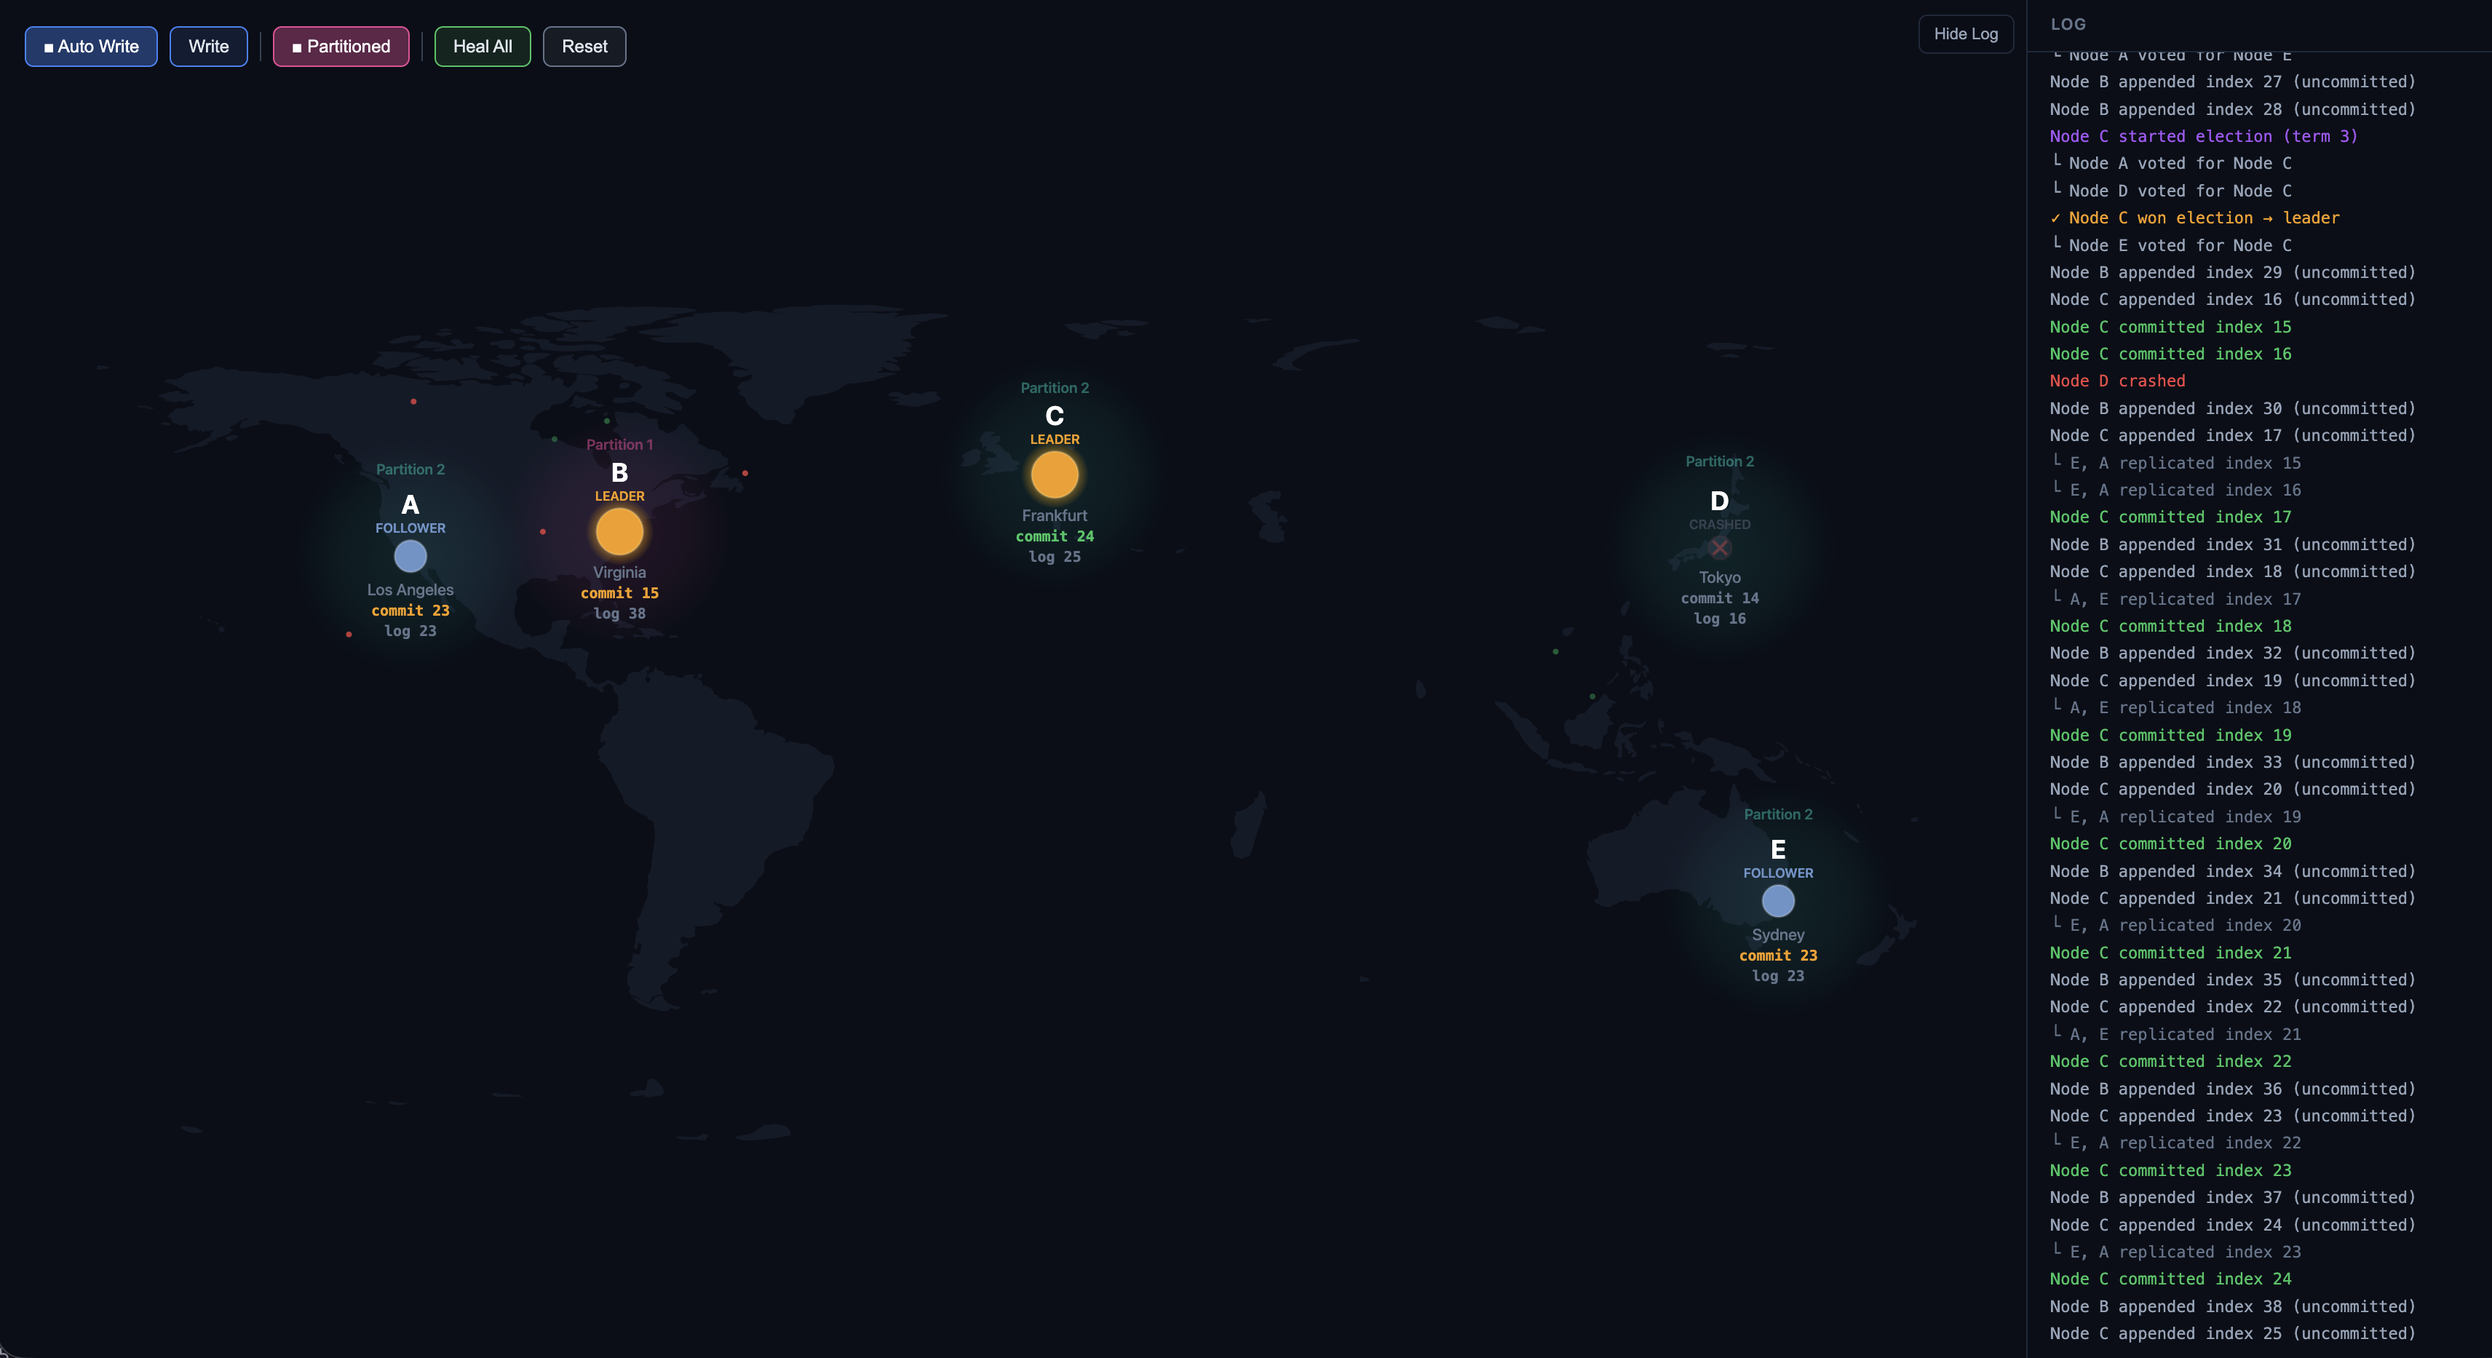
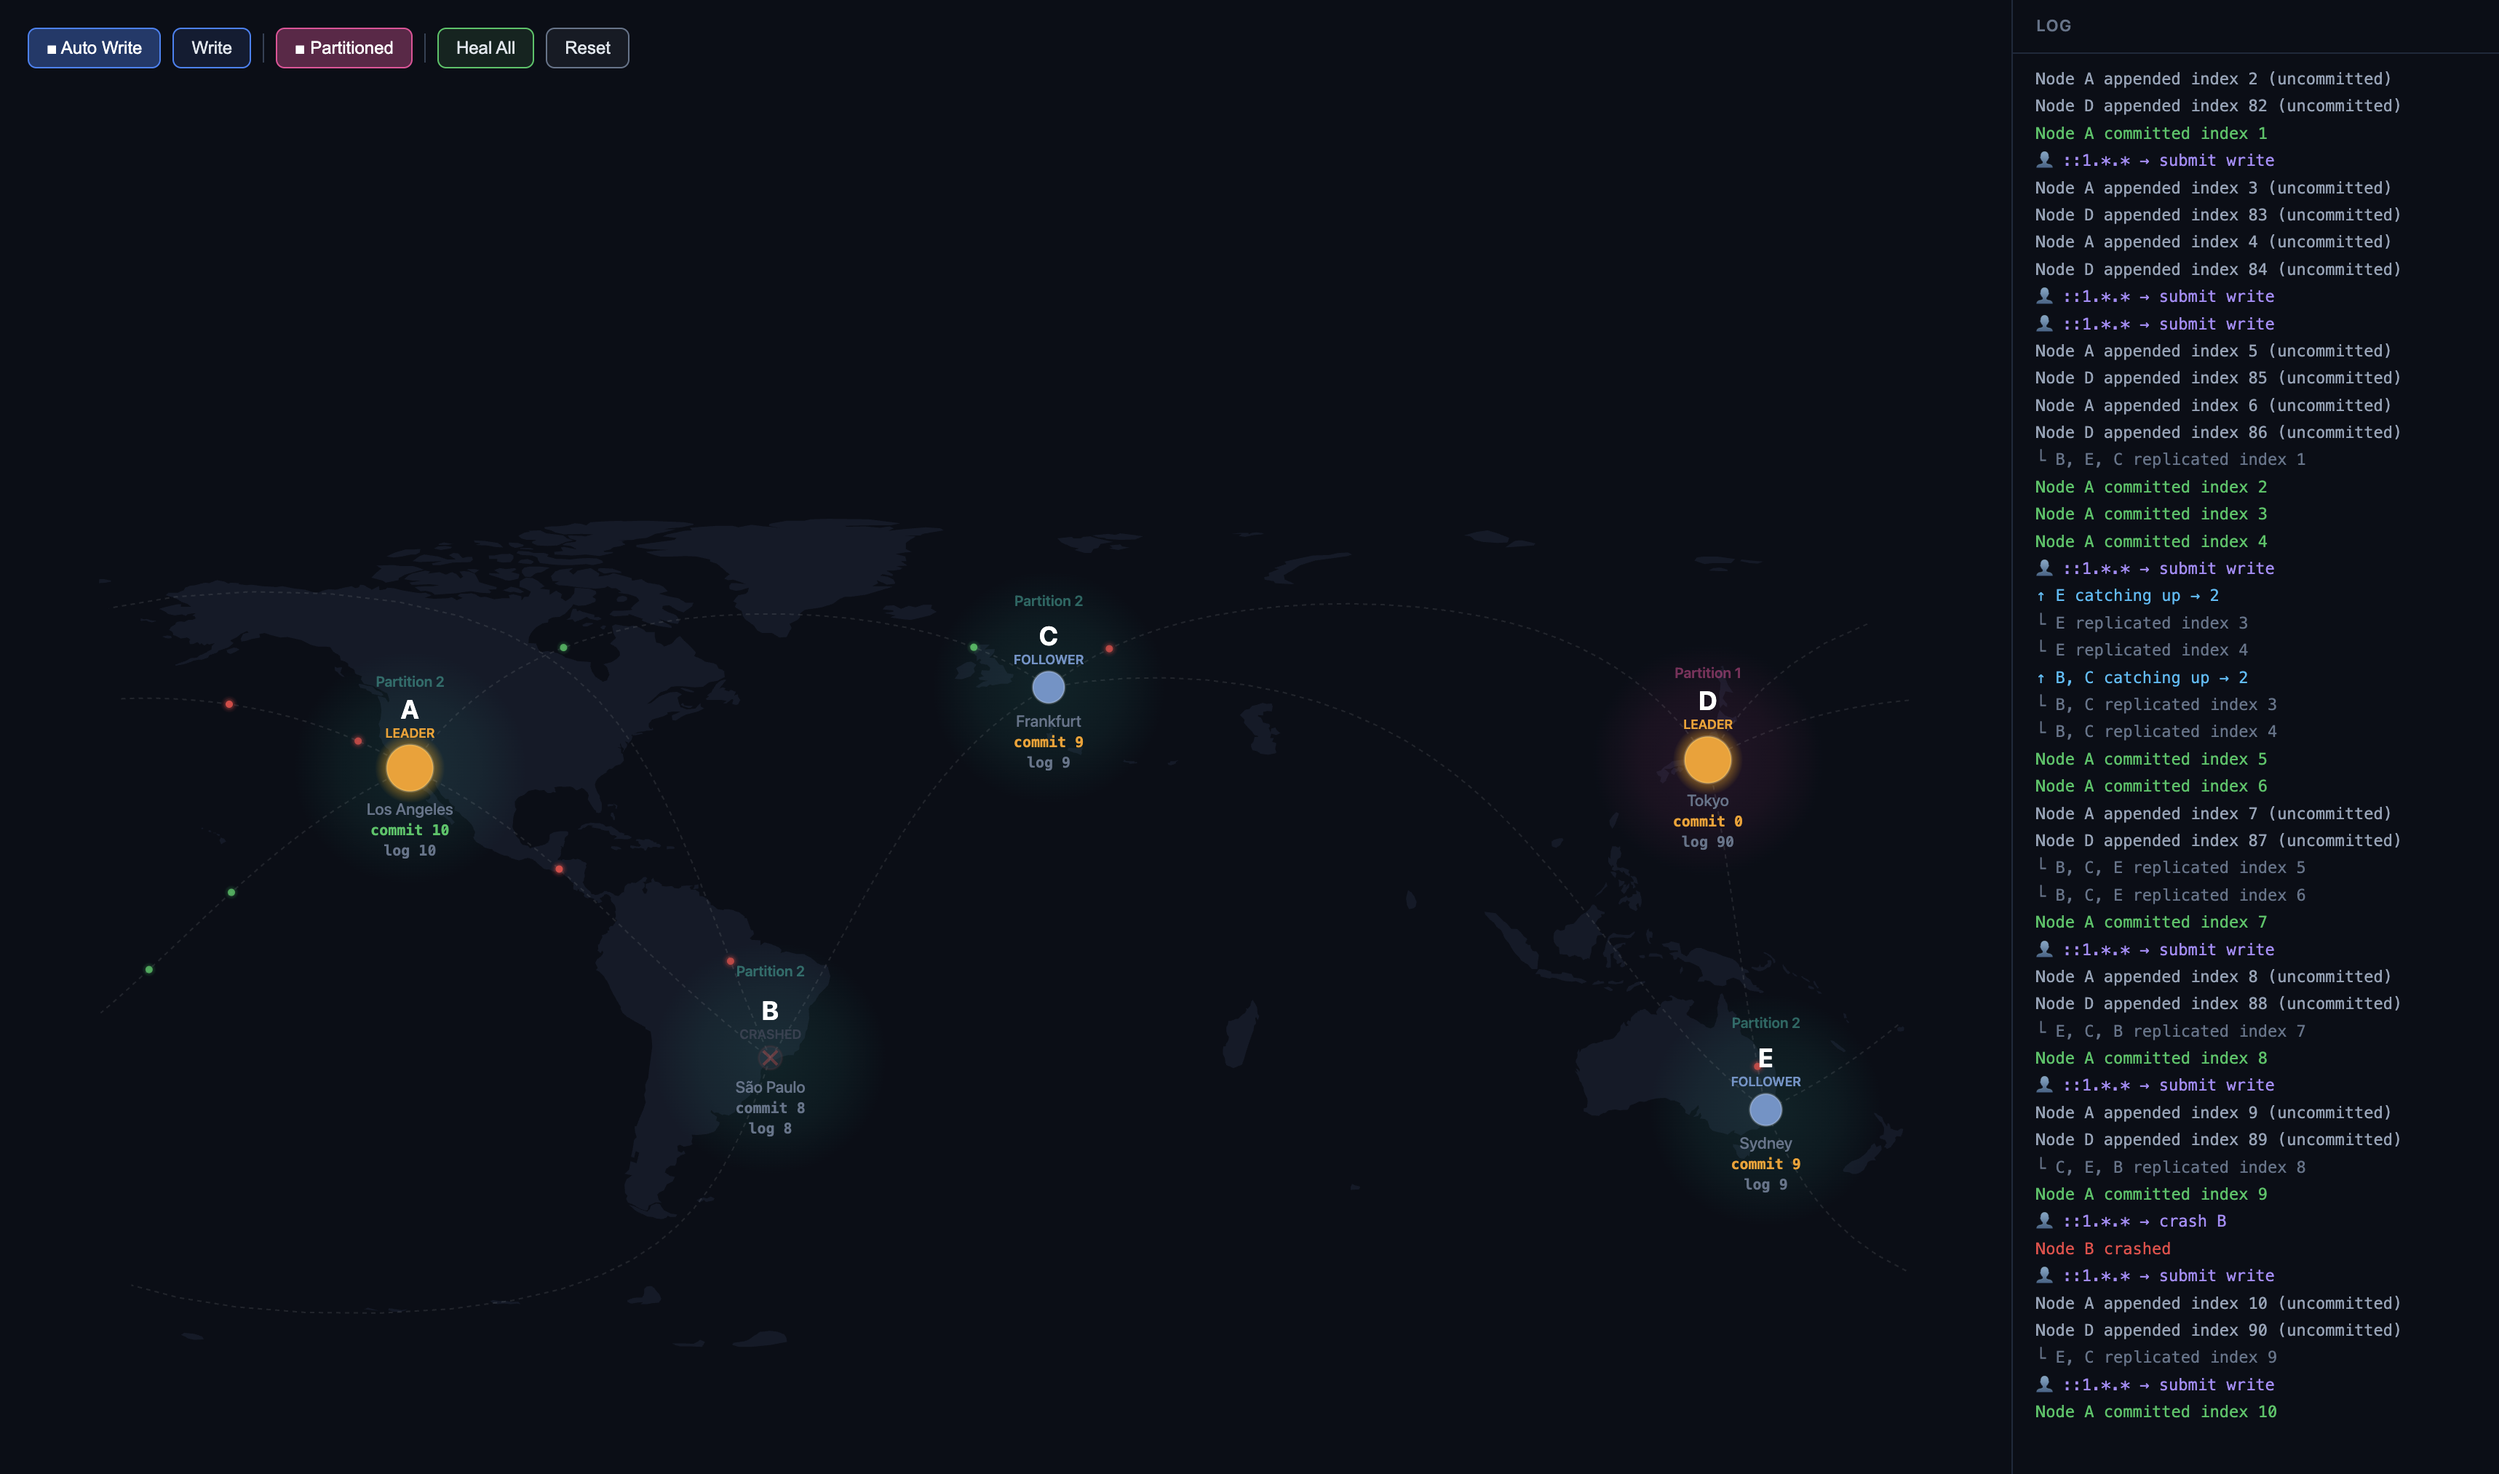
chore: update img

diff --git a/frontend/src/components/WorldMap.tsx b/frontend/src/components/WorldMap.tsx
@@ -248,6 +248,74 @@ export function WorldMap({ nodes, faults, events, drainNewEvents, mode, onAction
       }
     }
 
+    // ─── Connection lines (both desktop and mobile) ───
+    const nodeIds: NodeId[] = ['A', 'B', 'C', 'D', 'E'];
+    ctx.strokeStyle = '#ffffff18'; // Faint white
+    ctx.lineWidth = 1 * dpr;
+    ctx.setLineDash([3 * dpr, 3 * dpr]); // Dashed line
+
+    for (let i = 0; i < nodeIds.length; i++) {
+      for (let j = i + 1; j < nodeIds.length; j++) {
+        if (mobile) {
+          // Mobile: simple straight lines between circular layout positions
+          const posA = getNodePosition(nodeIds[i], w, h, mobile);
+          const posB = getNodePosition(nodeIds[j], w, h, mobile);
+
+          ctx.beginPath();
+          ctx.moveTo(posA.x, posA.y);
+          ctx.lineTo(posB.x, posB.y);
+          ctx.stroke();
+        } else {
+          // Desktop: curved great circle arcs (with wraparound support)
+          const configA = NODES[nodeIds[i]];
+          const configB = NODES[nodeIds[j]];
+          if (!configA || !configB) continue;
+
+          // Interpolate along great circle arc with wraparound detection
+          const segments = 30;
+          const points: { x: number; y: number }[] = [];
+
+          for (let seg = 0; seg <= segments; seg++) {
+            const t = seg / segments;
+            const pt = interpolateGreatCircle(
+              configA.lat, configA.lng,
+              configB.lat, configB.lng,
+              t
+            );
+            const pos = latLngToCanvas(pt.lat, pt.lng, w, h);
+            points.push(pos);
+          }
+
+          // Draw the path, breaking into segments when it wraps
+          ctx.beginPath();
+          ctx.moveTo(points[0].x, points[0].y);
+
+          for (let seg = 1; seg < points.length; seg++) {
+            const prevPos = points[seg - 1];
+            const currPos = points[seg];
+
+            // Detect wraparound: large horizontal jump indicates crossing edge
+            const dx = Math.abs(currPos.x - prevPos.x);
+            const isWrap = dx > w / 2; // Jump more than half the screen width
+
+            if (isWrap) {
+              // Finish current segment
+              ctx.stroke();
+              // Start new segment at current point
+              ctx.beginPath();
+              ctx.moveTo(currPos.x, currPos.y);
+            } else {
+              ctx.lineTo(currPos.x, currPos.y);
+            }
+          }
+
+          ctx.stroke();
+        }
+      }
+    }
+
+    ctx.setLineDash([]); // Reset dash
+
     // ─── Weather effects ───
     const now = performance.now() / 1000;
     weatherFxRef.current = weatherFxRef.current.filter((fx) => {
@@ -311,18 +379,42 @@ export function WorldMap({ nodes, faults, events, drainNewEvents, mode, onAction
         pos = latLngToCanvas(pt.lat, pt.lng, w, h);
       }
 
-      // Make normal particles bright and visible, error particles red
+      // Make particles more distinct - moderate size with glow
       const alpha = particle.dropped
-        ? Math.max(0, 1 - particle.progress * 0.5) // Slower fade for errors
-        : Math.max(0, 0.7 - particle.progress * 0.4); // Bright and visible
-      const size = 2 * dpr; // Same size for all particles
+        ? Math.max(0, 1 - particle.progress * 0.3) // Slower fade for errors, stay visible longer
+        : Math.max(0, 0.9 - particle.progress * 0.3); // Much brighter, slower fade
 
-      // Core particle
-      ctx.globalAlpha = particle.dropped ? alpha * 0.95 : alpha * 0.8;
+      const coreSize = particle.dropped ? 2.5 * dpr : 2.5 * dpr; // Moderate size, same for both
+      const glowSize = particle.dropped ? 6 * dpr : 5 * dpr; // Glow halo
+
+      // Outer glow for better visibility
+      const gradient = ctx.createRadialGradient(pos.x, pos.y, 0, pos.x, pos.y, glowSize);
+      gradient.addColorStop(0, particle.color + 'ff'); // Full opacity at center
+      gradient.addColorStop(0.5, particle.color + '66'); // 40% opacity mid
+      gradient.addColorStop(1, particle.color + '00'); // Transparent edge
+
+      ctx.globalAlpha = alpha * 0.6;
       ctx.beginPath();
-      ctx.arc(pos.x, pos.y, size, 0, Math.PI * 2);
+      ctx.arc(pos.x, pos.y, glowSize, 0, Math.PI * 2);
+      ctx.fillStyle = gradient;
+      ctx.fill();
+
+      // Core particle (bright and solid)
+      ctx.globalAlpha = alpha;
+      ctx.beginPath();
+      ctx.arc(pos.x, pos.y, coreSize, 0, Math.PI * 2);
       ctx.fillStyle = particle.color;
       ctx.fill();
+
+      // Extra pulse effect for error particles
+      if (particle.dropped) {
+        const pulseAlpha = alpha * 0.4 * (1 + Math.sin(elapsed * 8));
+        ctx.globalAlpha = pulseAlpha;
+        ctx.beginPath();
+        ctx.arc(pos.x, pos.y, coreSize * 1.5, 0, Math.PI * 2);
+        ctx.fillStyle = particle.color;
+        ctx.fill();
+      }
 
       ctx.globalAlpha = 1;
     }

diff --git a/frontend/src/components/MessageParticle.tsx b/frontend/src/components/MessageParticle.tsx
@@ -63,7 +63,7 @@ export function createParticleFromEvent(event: ClusterEvent): Particle | null {
         progress: 0,
         color: COLORS.droppedParticle,
         startTime: now,
-        duration: 800,
+        duration: 2000, // Same speed as regular heartbeats
         dropped: true,
       };
 
